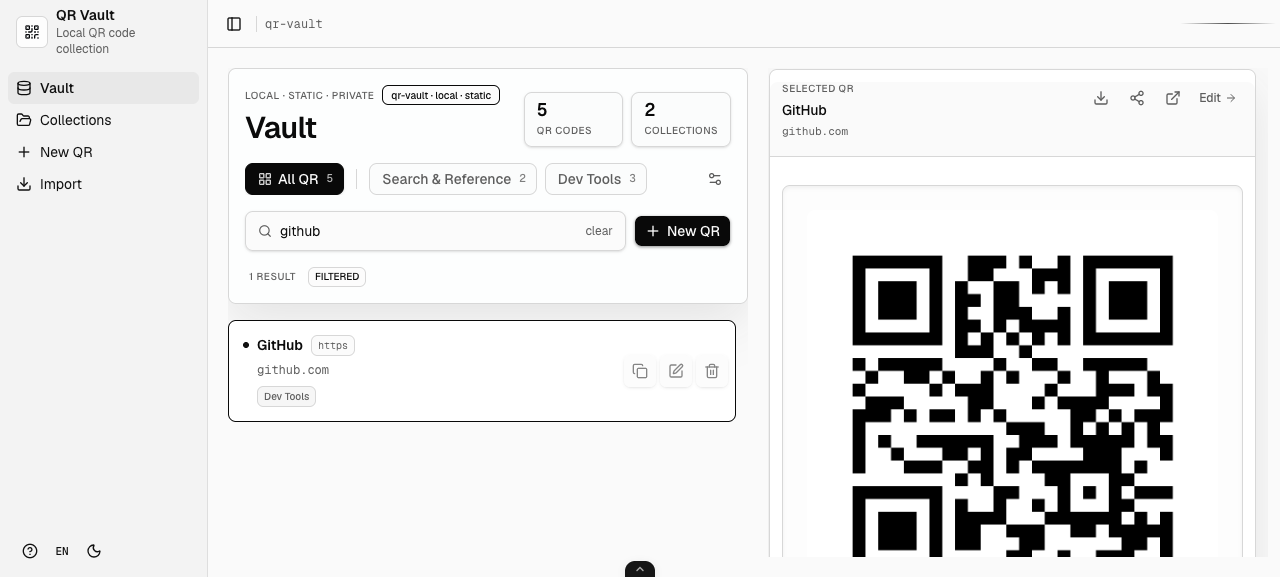
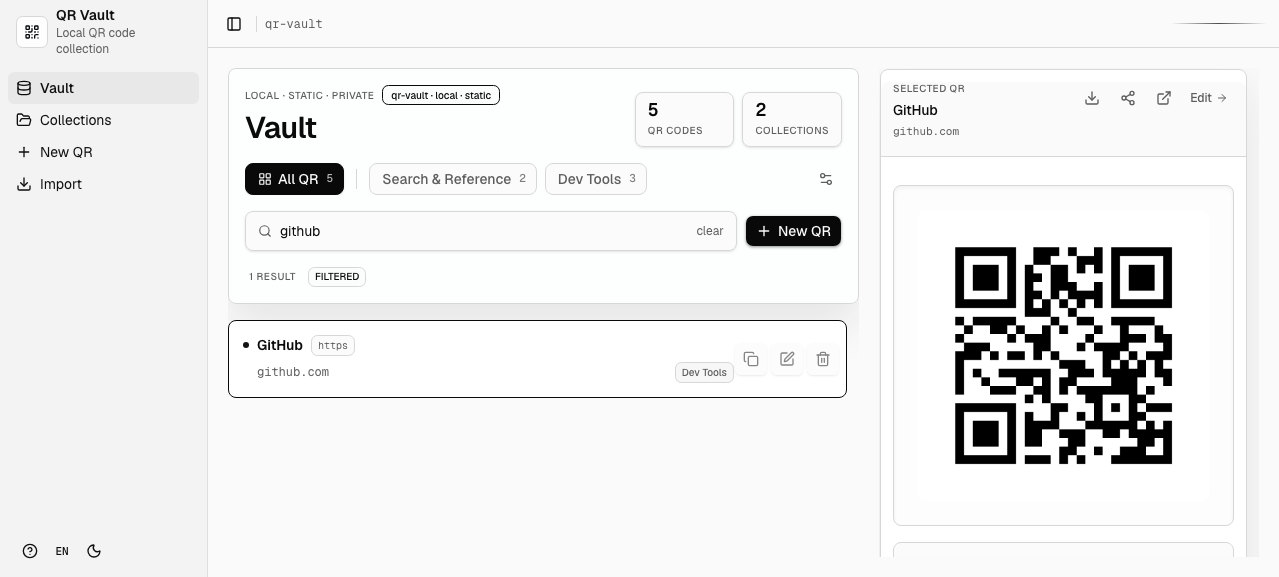
fix(qr-vault): keep collection chip inline

diff --git a/apps/qr-vault/src/app/workspace/qr-list.tsx b/apps/qr-vault/src/app/workspace/qr-list.tsx
@@ -133,31 +133,14 @@ function QrListItem({
               </span>
             )}
           </div>
-          <p className="text-muted-foreground truncate pl-3.5 font-mono text-xs">
-            {parsed.path || qr.url}
-          </p>
+          <div className="flex min-w-0 items-center gap-2 pl-3.5">
+            <p className="text-muted-foreground min-w-0 flex-1 truncate font-mono text-xs">
+              {parsed.path || qr.url}
+            </p>
+            <CollectionInlineBadge collectionNames={collectionNames} />
+          </div>
           {qr.description && (
             <p className="text-muted-foreground mt-0.5 truncate pl-3.5 text-xs">{qr.description}</p>
-          )}
-          {collectionNames.length > 0 && (
-            <div className="mt-2 flex min-w-0 flex-wrap gap-1 pl-3.5">
-              {collectionNames.slice(0, 2).map((collectionName) => (
-                <span
-                  key={collectionName}
-                  className="bg-muted/55 text-muted-foreground max-w-36 truncate rounded-md border px-1.5 py-0.5 text-[10px] font-medium"
-                >
-                  {collectionName}
-                </span>
-              ))}
-              {collectionNames.length > 2 && (
-                <span
-                  className="text-muted-foreground rounded-md border px-1.5 py-0.5 font-mono text-[10px]"
-                  title={collectionNames.slice(2).join(', ')}
-                >
-                  {t('common.moreCount', { count: collectionNames.length - 2 })}
-                </span>
-              )}
-            </div>
           )}
         </div>
       </button>
@@ -190,5 +173,24 @@ function QrListItem({
         )}
       </div>
     </div>
+  )
+}
+
+function CollectionInlineBadge({ collectionNames }: { collectionNames: string[] }) {
+  const { t } = useTranslation()
+  if (!collectionNames.length) return null
+
+  return (
+    <span
+      className="bg-muted/45 text-muted-foreground inline-flex max-w-32 shrink-0 items-center gap-1 rounded-md border px-1.5 py-0.5 text-[10px] font-medium"
+      title={collectionNames.join(', ')}
+    >
+      <span className="truncate">{collectionNames[0]}</span>
+      {collectionNames.length > 1 && (
+        <span className="font-mono">
+          {t('common.moreCount', { count: collectionNames.length - 1 })}
+        </span>
+      )}
+    </span>
   )
 }
